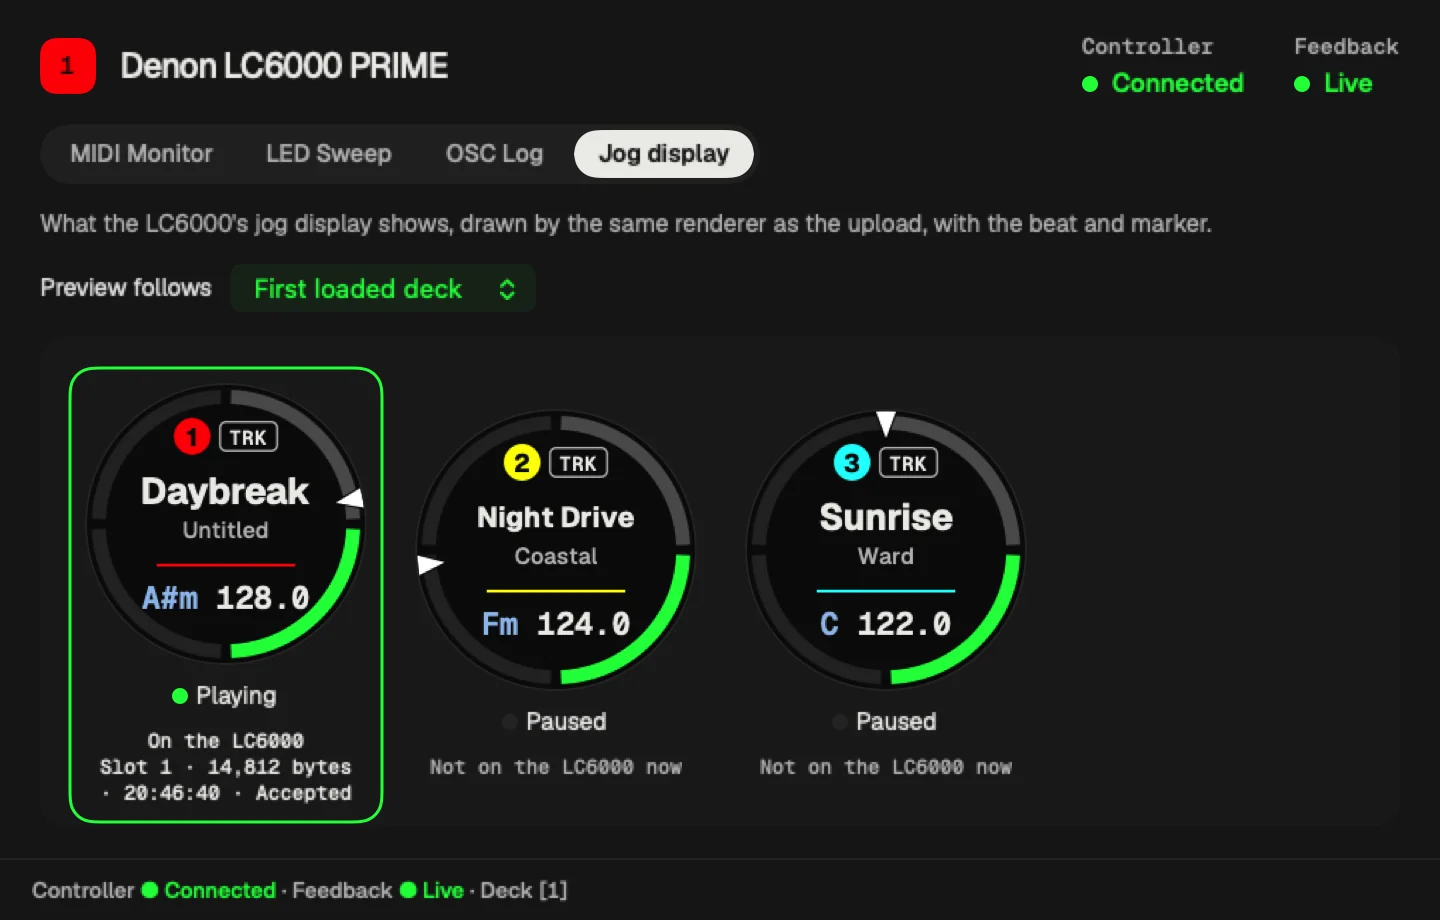
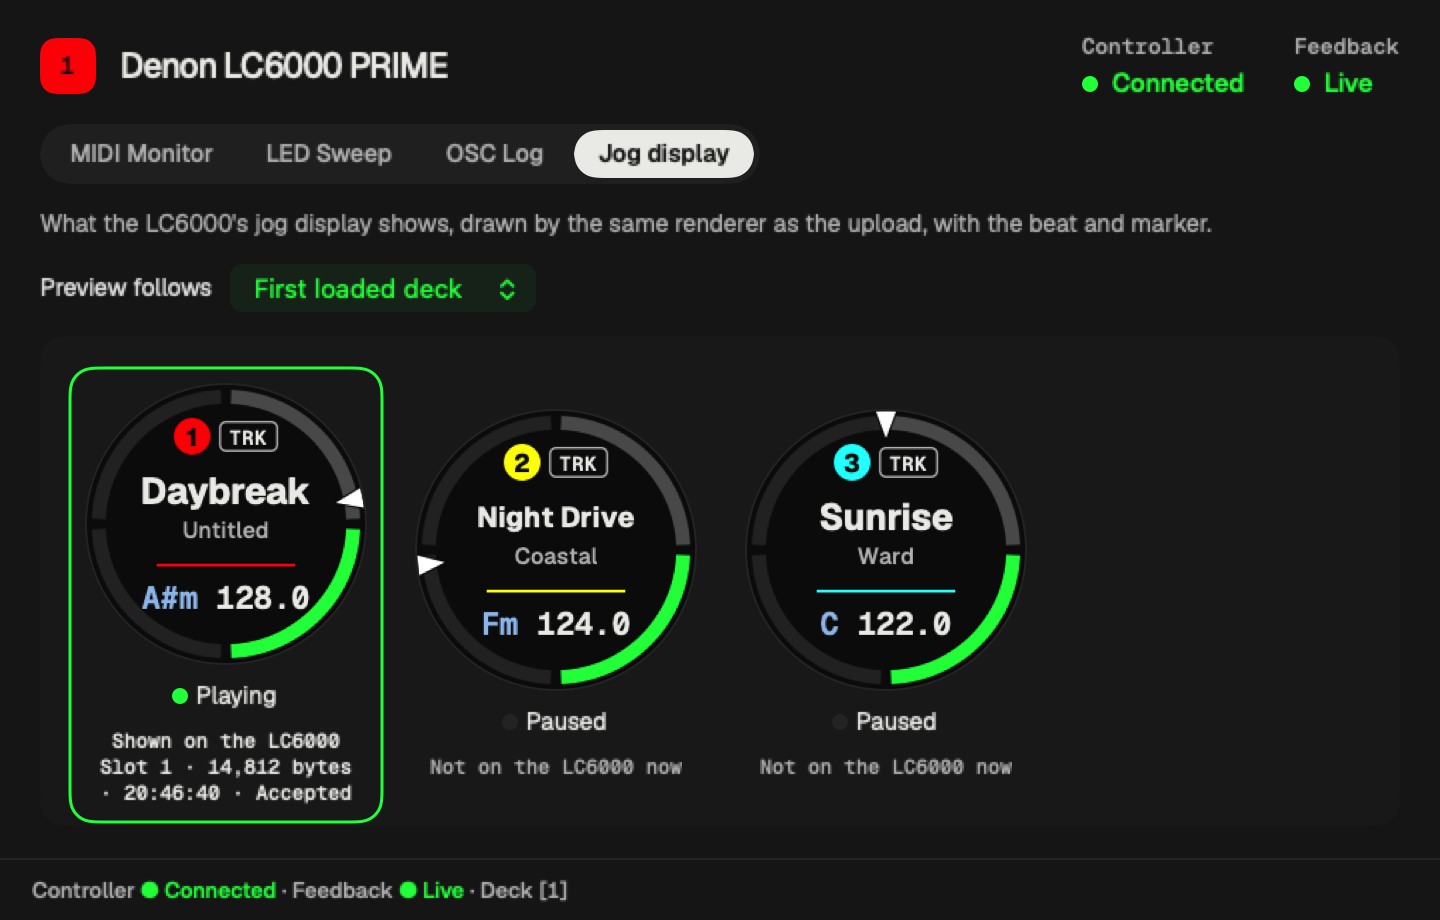
Site: Diagnostics › Jog display re-rendered, and Settings › Syndicate's Display feed shown on Support (#647)
Both from the Debug build's --render-snapshots (diagnostics-jog-display-live, settings-syndicate), which exits
before the app starts: no engine, no MIDI, OSC or display ports. Lossless WebP.

Claude-Session: https://claude.ai/code/session_01VCgWWtMsRLyAoGPQD9M6xN

Changed region(s): [[0.0625, 0.7913, 0.25, 0.8217], [0.125, 0.6087, 0.1875, 0.6391], [0.3438, 0.487, 0.375, 0.5174]]

diff --git a/website/support/index.html b/website/support/index.html
@@ -236,6 +236,9 @@
           <p>Give it the display’s host and port. The status line under them says whether it’s sending. While it’s on, DeckBridge also asks Syndicate for its Meter and PhaseOffset feedback, and says so if they’re off.</p>
           <p class="muted">Leave it off if you have no display listening.</p>
         </div>
+        <div class="span-6 start-7">
+          <img class="db-shotimg" src="../img/settings-display-feed.webp" alt="Settings › Syndicate: Syndicate’s OSC input and feedback ports, and the Display feed section with its switch off and the status Off." width="880" height="952" loading="lazy" decoding="async">
+        </div>
       </div>
     </div>
   </section>
